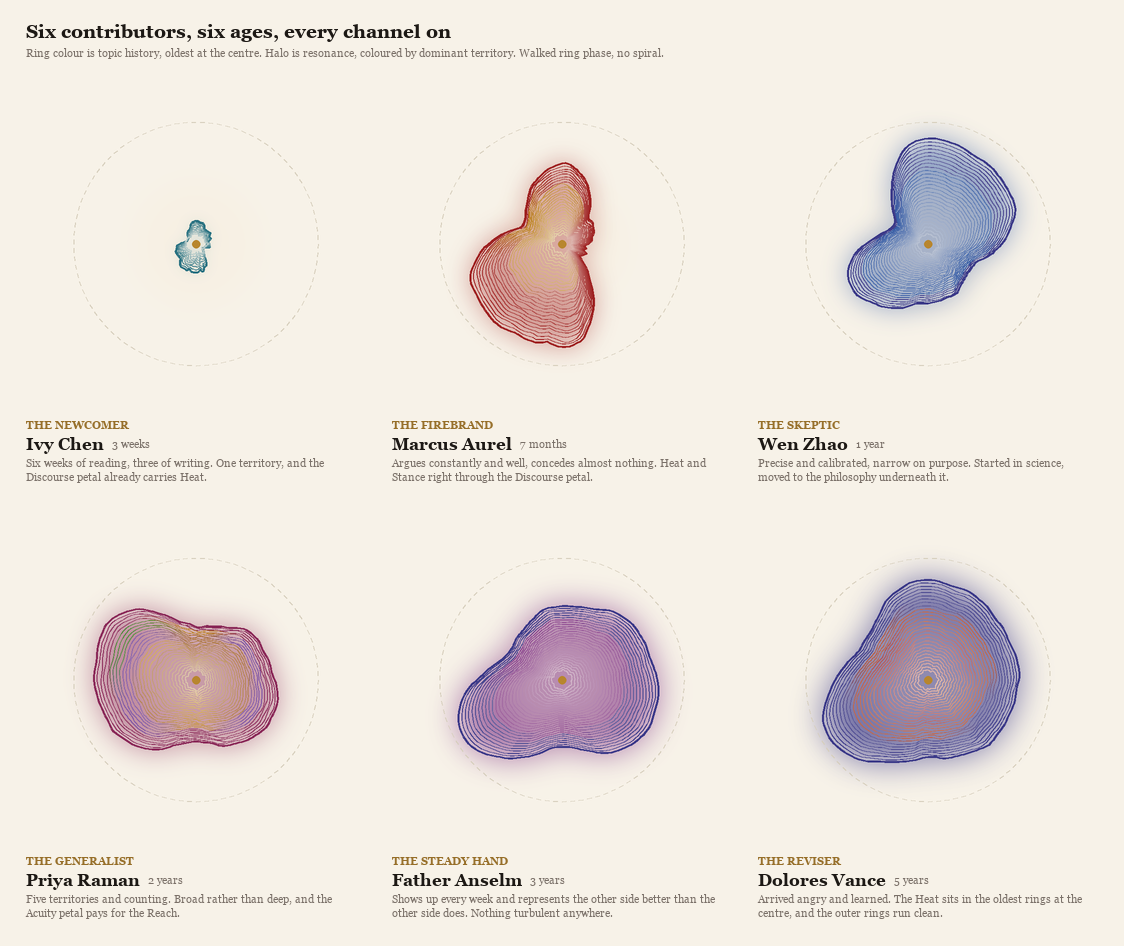
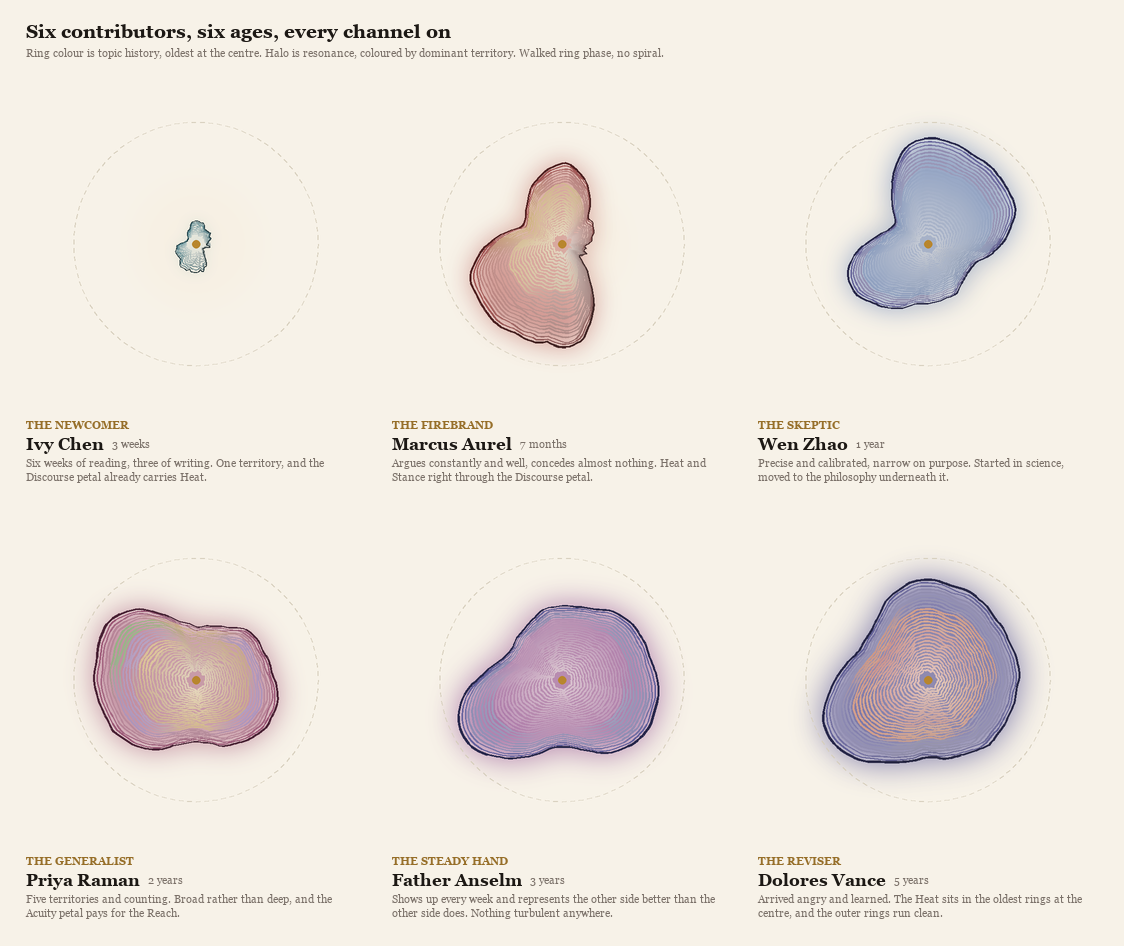
Purity never touched colour, and four render channels were missing from the port
Dan on the gallery: "they are very saturated and mono-colored. I would love to
find a way for the fingerprint to tell the story a little more obviously and
not look like a giant color blob."

Most of the blob was my render, not the design. The engine keeps one strong
silhouette in DEEP colour at opacity 0.95, two medium rings, and an interior
that fades to 0.22, with stroke weight scaled 0.55 to 1.45 by how many
graduations sit at that angle. My first pass drew every ring at one linear
ramp in the base colour, so 26 rings stacked into a solid mass. All four are
in now: colorDeep on the silhouette, the engine's opacity bands, weight by
localStrength, and clarity carried per segment.

The rest is a channel that was never built. localPurity is computed and used
in exactly one place, the base noise amplitude at line 500. The engine's own
comment at line 175 says purity "drives base color saturation" and the live
fingerprint page promises readers the same thing. Colour comes from
topicColor(), which never sees purity. Verified by reading every use of the
variable.

So a single-territory contributor rendered every ring at the palette's full
strength, which is the mass Dan was looking at. saturationForPurity and
applyPurity in packages/core/src/fingerprint-texture.ts build it: colour is
pulled toward its own luminance grey as purity falls, with a 0.30 floor so a
murky region still says which territory it came from. 95 tests, typecheck and
build clean.
[…]

diff --git a/packages/core/src/fingerprint-texture.ts b/packages/core/src/fingerprint-texture.ts
@@ -176,6 +176,44 @@ export function turbulenceWave(theta: number, field: RingField, turbulence: numb
   return (waveAt(t, field.phase, lo) * (1 - frac) + waveAt(t, field.phase, lo + 1) * frac) * turbulence;
 }
 
+/**
+ * TUNING: how much colour survives at zero purity. 0.30 keeps a murky version
+ * of the topic rather than going fully grey, so a low-purity region still says
+ * which territory it came from.
+ */
+export const PURITY_SATURATION_FLOOR = 0.3;
+
+/**
+ * How saturated a ring's colour should be, given the purity behind it.
+ *
+ * THE CHANNEL THE SPEC PROMISES AND THE ENGINE NEVER BUILT. The recovered
+ * engine computes `localPurity` and uses it in exactly one place, the base
+ * noise amplitude at line 500. Its own comment at line 175 says purity "drives
+ * base color saturation" and the live fingerprint page tells readers the same
+ * thing. Neither is true: colour comes from `topicColor()`, which never sees
+ * purity. Verified by reading every use of the variable.
+ *
+ * It matters for legibility rather than fidelity. Without it, every ring of a
+ * single-territory contributor renders at the palette's full strength and the
+ * whole shape reads as one saturated mass, which is what Dan reported on
+ * 2026-09-20 looking at the six-profile gallery.
+ */
+export function saturationForPurity(purity: number): number {
+  const p = Math.max(0, Math.min(1, purity));
+  return PURITY_SATURATION_FLOOR + p * (1 - PURITY_SATURATION_FLOOR);
+}
+
+/** Pull a colour toward its own luminance grey by the purity behind it. */
+export function applyPurity(rgb: readonly [number, number, number], purity: number): [number, number, number] {
+  const k = saturationForPurity(purity);
+  const grey = 0.299 * rgb[0] + 0.587 * rgb[1] + 0.114 * rgb[2];
+  return [
+    Math.round(grey + (rgb[0] - grey) * k),
+    Math.round(grey + (rgb[1] - grey) * k),
+    Math.round(grey + (rgb[2] - grey) * k),
+  ];
+}
+
 /** `depth` is 0 at the outermost ring and 1 at the innermost. */
 export function baseNoiseAmplitude(purity: number, depth: number): number {
   return ((1 - purity) * BASE_NOISE_IMPURITY_GAIN + BASE_NOISE_FLOOR) * (1 + (1 - depth) * 0.4);

diff --git a/packages/core/test/fingerprint-texture.test.ts b/packages/core/test/fingerprint-texture.test.ts
@@ -1,6 +1,9 @@
 import { describe, expect, it } from 'vitest';
 import {
   NOISE_OCTAVES,
+  PURITY_SATURATION_FLOOR,
+  applyPurity,
+  saturationForPurity,
   ROTATION_WALK_STEP,
   baseNoiseAmplitude,
   perimeterNoise,
@@ -132,5 +135,37 @@ describe('textureOffset', () => {
   it('closes around the perimeter with every channel live', () => {
     const input = { field: field(0.9), depth: 0.2, purity: 0.4, turbulence: 0.63, maturity: 19 };
     expect(textureOffset({ ...input, theta: 0 })).toBeCloseTo(textureOffset({ ...input, theta: TAU }), 9);
+  });
+});
+
+describe('saturationForPurity', () => {
+  // The engine documents this channel at line 175 and the live page promises it
+  // to readers, and neither is implemented: localPurity only ever reaches the
+  // base noise amplitude. These tests are the channel actually existing.
+  it('gives full colour to a pure history', () => {
+    expect(saturationForPurity(1)).toBe(1);
+  });
+
+  it('keeps a floor, so a murky region still says which territory it came from', () => {
+    expect(saturationForPurity(0)).toBe(PURITY_SATURATION_FLOOR);
+    expect(saturationForPurity(-3)).toBe(PURITY_SATURATION_FLOOR);
+  });
+
+  it('rises with purity', () => {
+    expect(saturationForPurity(0.2)).toBeLessThan(saturationForPurity(0.8));
+  });
+
+  it('pulls a colour toward its own grey, never toward another hue', () => {
+    const red = [158, 32, 32] as const;
+    const grey = 0.299 * red[0] + 0.587 * red[1] + 0.114 * red[2];
+    const muted = applyPurity(red, 0);
+    expect(muted[0]).toBeLessThan(red[0]);
+    expect(muted[1]).toBeGreaterThan(red[1]);
+    // still on the same side of grey, so the hue survives
+    expect(muted[0]).toBeGreaterThan(grey);
+  });
+
+  it('leaves a pure colour alone', () => {
+    expect(applyPurity([158, 32, 32], 1)).toEqual([158, 32, 32]);
   });
 });

diff --git a/packages/core/src/index.ts b/packages/core/src/index.ts
@@ -86,11 +86,14 @@ export {
   BASE_NOISE_IMPURITY_GAIN,
   NOISE_OCTAVES,
   PHASE_JITTER,
+  PURITY_SATURATION_FLOOR,
   ROTATION_WALK_STEP,
   TURBULENCE_FLOOR,
   WAVE_AMPLITUDE,
+  applyPurity,
   baseNoiseAmplitude,
   perimeterNoise,
+  saturationForPurity,
   ringFields,
   textureOffset,
   turbulenceWave,

diff --git a/scripts/profile_gallery.py b/scripts/profile_gallery.py
@@ -50,6 +50,25 @@ def mix(a, b, t):
     return tuple(round(a[i] + (b[i] - a[i]) * t) for i in range(3))
 
 
+def desaturate(rgb, purity):
+    """
+    Pull a colour toward its own grey as purity falls.
+
+    The engine computes `localPurity` and uses it in exactly one place, the base
+    noise amplitude at line 500. Its own comment at line 175 says purity "drives
+    base color saturation" and the live page says "Purity drives color
+    saturation". Neither is true in the implementation: colour comes from
+    topicColor(), which never sees purity. This is that channel, built.
+
+    It matters for legibility rather than fidelity. Without it every ring of a
+    single-territory contributor renders at the palette's full strength and the
+    shape reads as one saturated mass.
+    """
+    k = 0.30 + max(0.0, min(1.0, purity)) * 0.70
+    grey = 0.299 * rgb[0] + 0.587 * rgb[1] + 0.114 * rgb[2]
+    return tuple(round(grey + (c - grey) * k) for c in rgb)
+
+
 def smoothstep(t):
     return t * t * (3 - 2 * t)
 
@@ -134,8 +153,13 @@ def build(profile, max_r, salt):
             cb = sharp_blend((deg - i * 60) / 60)
             ca = TOPICS.get(topic_at(a0) or "", ("#8a8278", "#5a5248"))
             cbb = TOPICS.get(topic_at(a1) or "", ("#8a8278", "#5a5248"))
-            col = mix(hex_rgb(ca[0]), hex_rgb(cbb[0]), cb)
-            pts.append((math.cos(theta - math.pi / 2) * r, math.sin(theta - math.pi / 2) * r, col))
+            col = desaturate(mix(hex_rgb(ca[0]), hex_rgb(cbb[0]), cb), pur)
+            deep = desaturate(mix(hex_rgb(ca[1]), hex_rgb(cbb[1]), cb), pur)
+            clar = met[a0][2] * (1 - blend) + met[a1][2] * blend
+            strength = (min(grad[a0], HORIZON) / HORIZON * (1 - blend)
+                        + min(grad[a1], HORIZON) / HORIZON * blend)
+            pts.append((math.cos(theta - math.pi / 2) * r, math.sin(theta - math.pi / 2) * r,
+                        col, deep, strength, clar))
         rings.append(pts)
 
     counts = {}
@@ -166,7 +190,7 @@ def render_one(profile, salt):
         rc = res**0.7
         glow = Image.new("L", (S, S), 0)
         gd = ImageDraw.Draw(glow)
-        gd.polygon([(cx + x, cy + y) for x, y, _ in rings[0]], fill=int(70 + rc * 150))
+        gd.polygon([(cx + pt[0], cy + pt[1]) for pt in rings[0]], fill=int(70 + rc * 150))
         glow = glow.filter(ImageFilter.GaussianBlur((8 + rc * 22) * SUP * 0.55))
         tint = Image.new("RGB", (S, S), halo_rgb)
         layer = Image.composite(tint, layer, glow.point(lambda v: int(v * (0.25 + rc * 0.6))))
@@ -188,15 +212,25 @@ def render_one(profile, salt):
             fill=RING_C, width=SUP,
         )
 
+    # The engine's own bands, which my first pass flattened into one ramp and
+    # which is most of why the shape read as a blob: one strong silhouette in
+    # DEEP colour, two medium rings, and an interior that fades to 0.22.
     n = len(rings)
-    for k, pts in enumerate(rings):
-        fade = 0.30 + 0.70 * (1 - k / max(1, n - 1))
-        wid = SUP if k else SUP * 2
+    for k in range(n - 1, -1, -1):
+        pts = rings[k]
+        if k == 0:
+            opacity, base_w, use_deep = 0.95, 1.6, True
+        elif k <= 2:
+            opacity, base_w, use_deep = 0.78 - (k - 1) * 0.08, 1.2, False
+        else:
+            interior = (k - 3) / max(1, n - 4)
+            opacity, base_w, use_deep = max(0.22, 0.55 - interior * 0.30), 1.25, False
         for j in range(len(pts)):
-            x0, y0, c0 = pts[j]
-            x1, y1, _ = pts[(j + 1) % len(pts)]
-            col = mix(BG, c0, fade)
-            d.line([cx + x0, cy + y0, cx + x1, cy + y1], fill=col, width=wid)
+            x0, y0, c0, deep0, st0, cl0 = pts[j]
+            x1, y1, _, _, st1, _ = pts[(j + 1) % len(pts)]
+            col = deep0 if use_deep else c0
+            w = max(1, round(base_w * (0.55 + (st0 + st1) / 2 * 0.90) * SUP))
+            d.line([cx + x0, cy + y0, cx + x1, cy + y1], fill=mix(BG, col, opacity), width=w)
 
     d.ellipse([cx - 4 * SUP, cy - 4 * SUP, cx + 4 * SUP, cy + 4 * SUP], fill=hex_rgb("#b8862e"))
     return layer.resize((CELL, CELL), Image.LANCZOS), dominant

diff --git a/docs/FINGERPRINT.md b/docs/FINGERPRINT.md
@@ -51,11 +51,19 @@ signal, none of them sharing.
 | --- | --- | --- |
 | Petal extent | `graduations` per axis | The shape itself |
 | Ring hue | Topic history, laid down outward in time | Lines 50 to 66, 212 onward |
-| Saturation | `purity = forum / total` | Line 175 |
 | Wave amplitude and frequency | `turbulence = (heat + stance) / total` | Line 176 |
-| Line crispness | `clarity = forum / (forum + echo + fog)` | Line 177 |
+| Line crispness | `clarity = forum / (forum + echo + fog)` | Line 177, three blur buckets at 838 |
+| Stroke weight | `localStrength`, graduations at that angle | Line 549, scaled 0.55 to 1.45 |
+| Silhouette against interior | Ring index | `colorDeep` on k=0, opacity 0.95 down to 0.22 |
 | Halo throw and opacity | `resonance`, 0 to 1 | Lines 604 to 676 |
 | Halo hue | `dominantTopic` | Line 626 |
+| ~~Saturation~~ | ~~`purity = forum / total`~~ | **Documented at line 175, not implemented** |
+
+**The saturation channel does not exist in the engine.** `localPurity` is computed and then used in exactly one place, the base noise amplitude at line 500. The engine's own comment says purity "drives base color saturation" and the live fingerprint page tells readers the same thing. Colour comes from `topicColor()`, which never sees purity. An earlier version of this table repeated the comment's claim rather than the code's behaviour.
+
+It is built now, in `packages/core/src/fingerprint-texture.ts` as `saturationForPurity` and
+`applyPurity`, because it is the channel that keeps a single-territory contributor from rendering
+as one saturated mass.
 
 **Hue is not axis identity.** The engine says so in its own comment on the axis table: `color` is a
 fallback used for seed dots, legends, and when topic history is missing, and is explicitly not used
